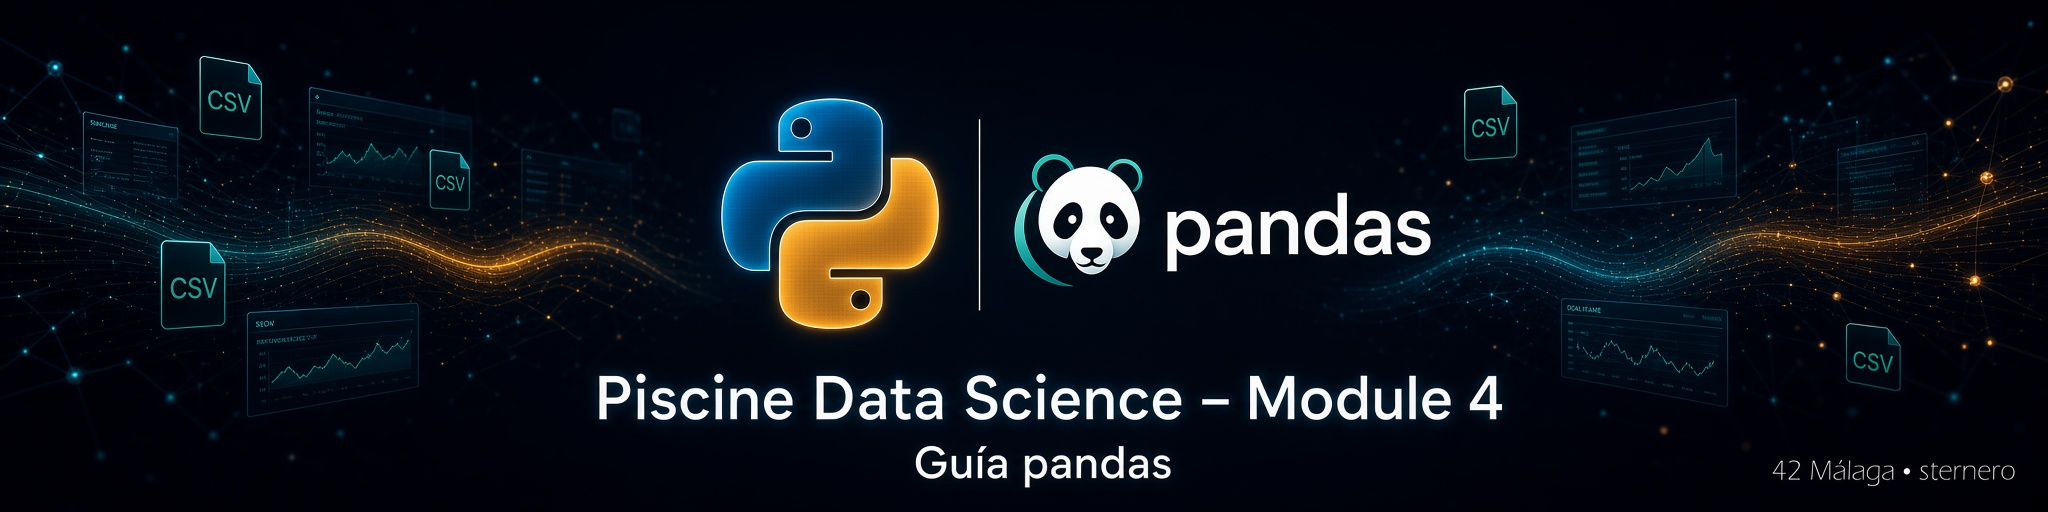
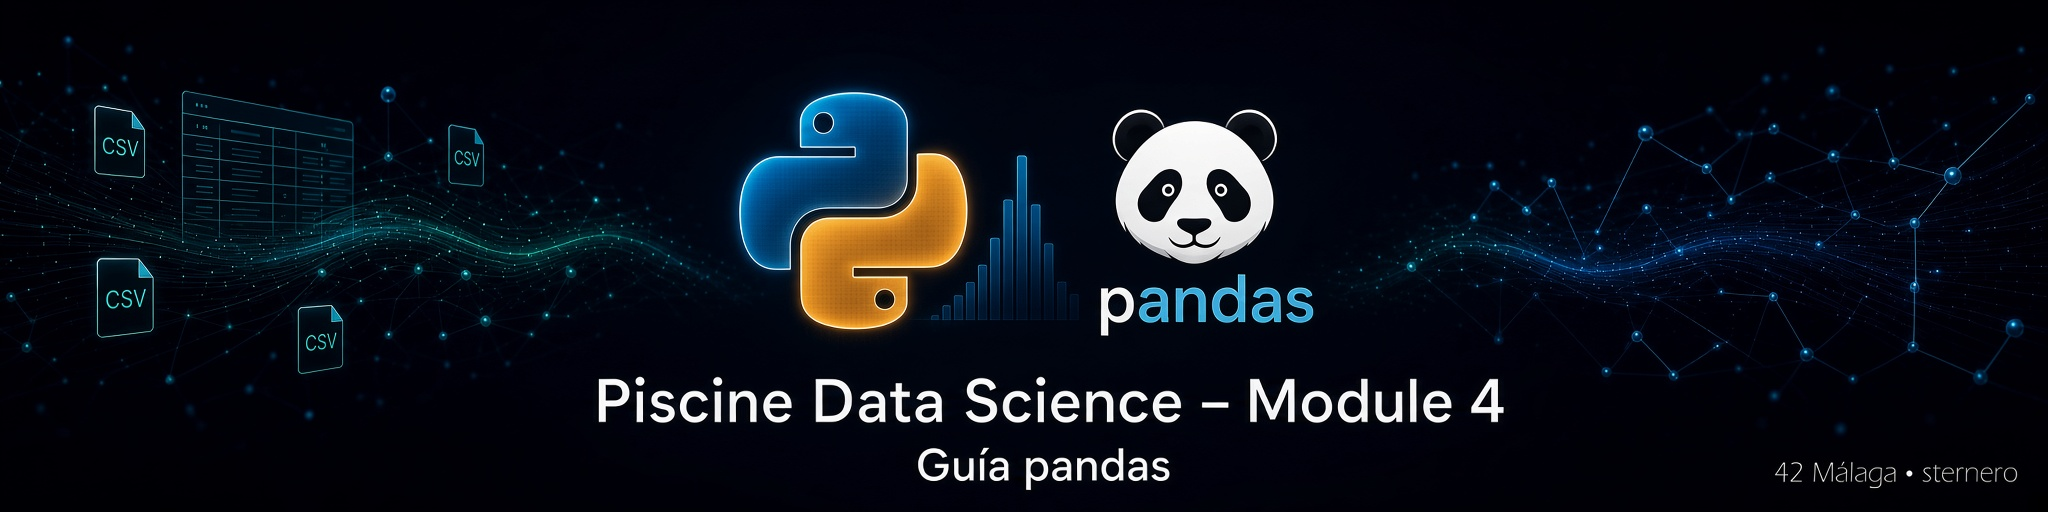
Update data_science_4_the_future · 13/10/26 15:06

diff --git a/matplotlib.md b/matplotlib.md
@@ -1,7 +1,7 @@
 # 📈 Matplotlib en el Module 4 – The future
 
 <p align="center">
-  <img src="./imgs/banner_00.jpg" alt="Piscine Data Science – Module 4 – Guía Matplotlib" width="100%">
+  <img src="./imgs/banner_matplotlib.jpg" alt="Piscine Data Science – Module 4 – Guía Matplotlib" width="100%">
 </p>
 
 [← README](./README.md) · [🐍 python.md](./python.md) · [🐼 pandas.md](./pandas.md) · [🔢 numpy.md](./numpy.md) · [🤖 scikit-learn.md](./scikit-learn.md) · [📐 mates.md](./mates.md)
@@ -47,6 +47,11 @@ No sustituye los `ex0N/python.md`.
 | ¿Obligatorio matplotlib? | El subject pide **ver** resultados; esta es la librería del repo. |
 | ¿Siempre ventana? | En cluster: **PNG** + visor suele bastar. |
 | ¿EX03 dibuja? | Puede centrarse en el print de VIF; otros EX sí grafican. |
+
+> **Salida legible durante la defensa:** `evaluation.sh` resume automáticamente las
+> salidas de terminal demasiado largas (por ejemplo, tablas o matrices). No oculta
+> el resultado de la prueba ni modifica el PNG; muestra las líneas más útiles y
+> conserva el comando para repetir la ejecución completa manualmente.
 
 [↑ Índice](#indice)
 

diff --git a/numpy.md b/numpy.md
@@ -1,7 +1,7 @@
 # 🔢 NumPy en el Module 4 – The future
 
 <p align="center">
-  <img src="./imgs/banner_00.jpg" alt="Piscine Data Science – Module 4 – Guía NumPy" width="100%">
+  <img src="./imgs/banner_numpy.jpg" alt="Piscine Data Science – Module 4 – Guía NumPy" width="100%">
 </p>
 
 [← README](./README.md) · [🐍 python.md](./python.md) · [🐼 pandas.md](./pandas.md) · [📈 matplotlib.md](./matplotlib.md) · [🤖 scikit-learn.md](./scikit-learn.md) · [📐 mates.md](./mates.md)
